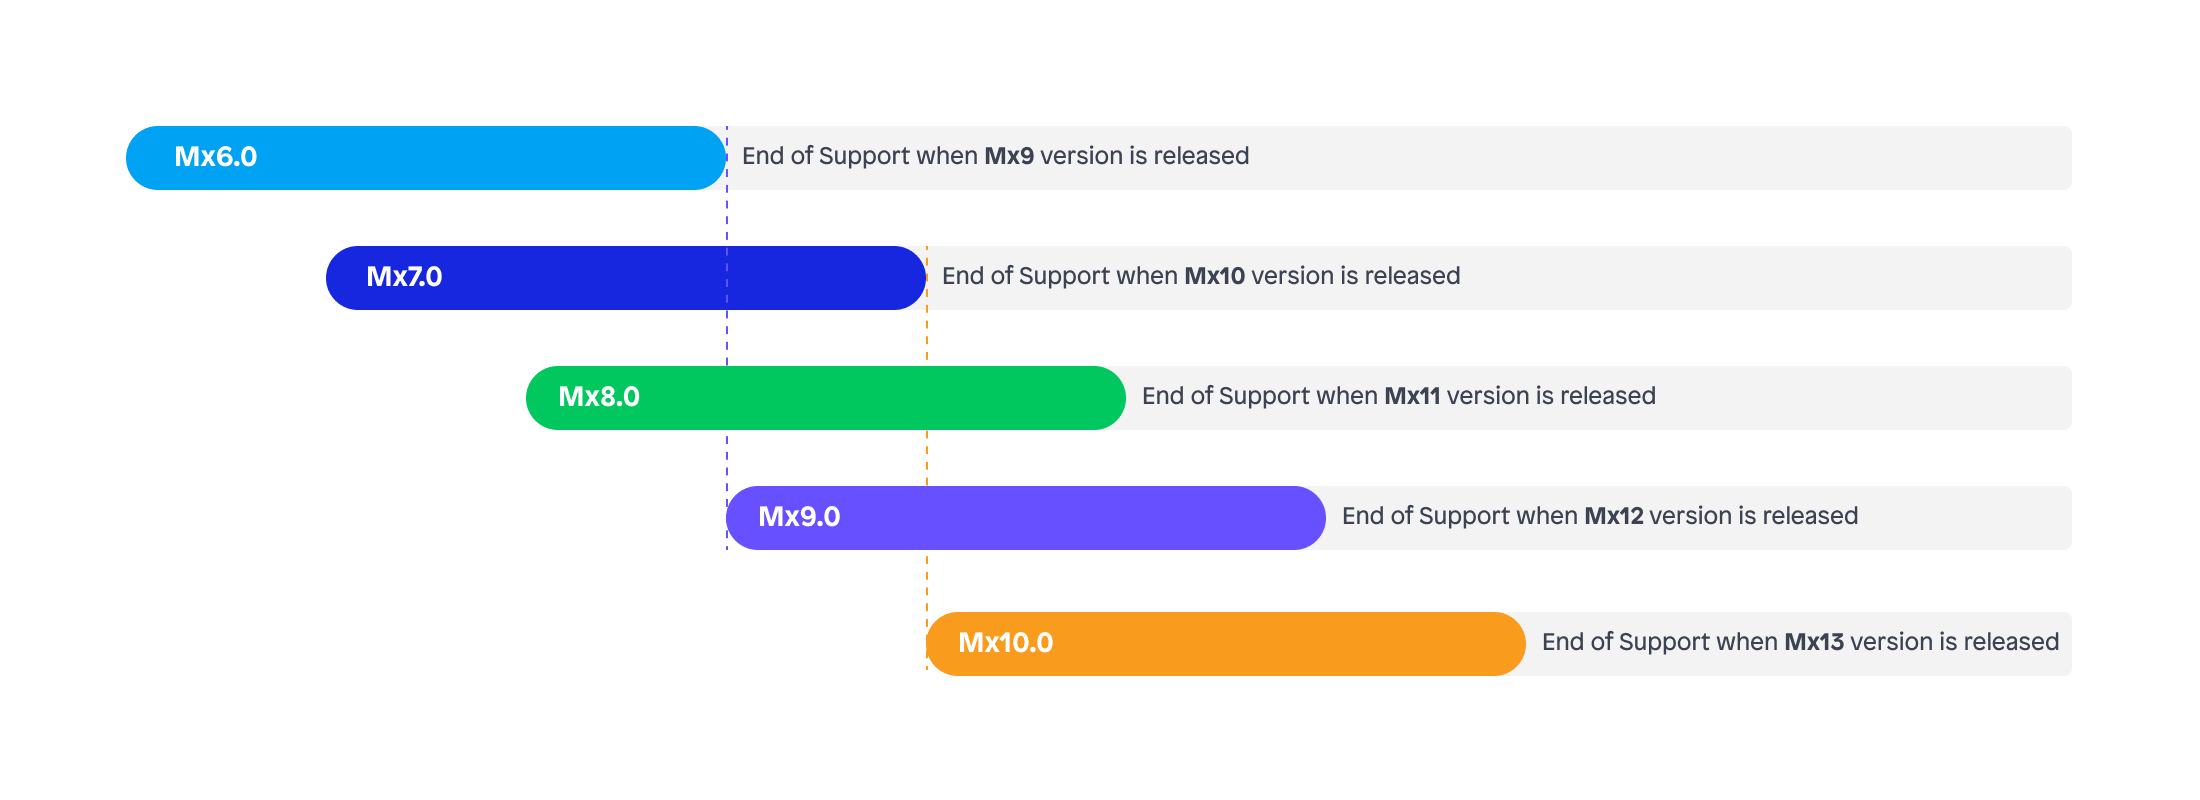
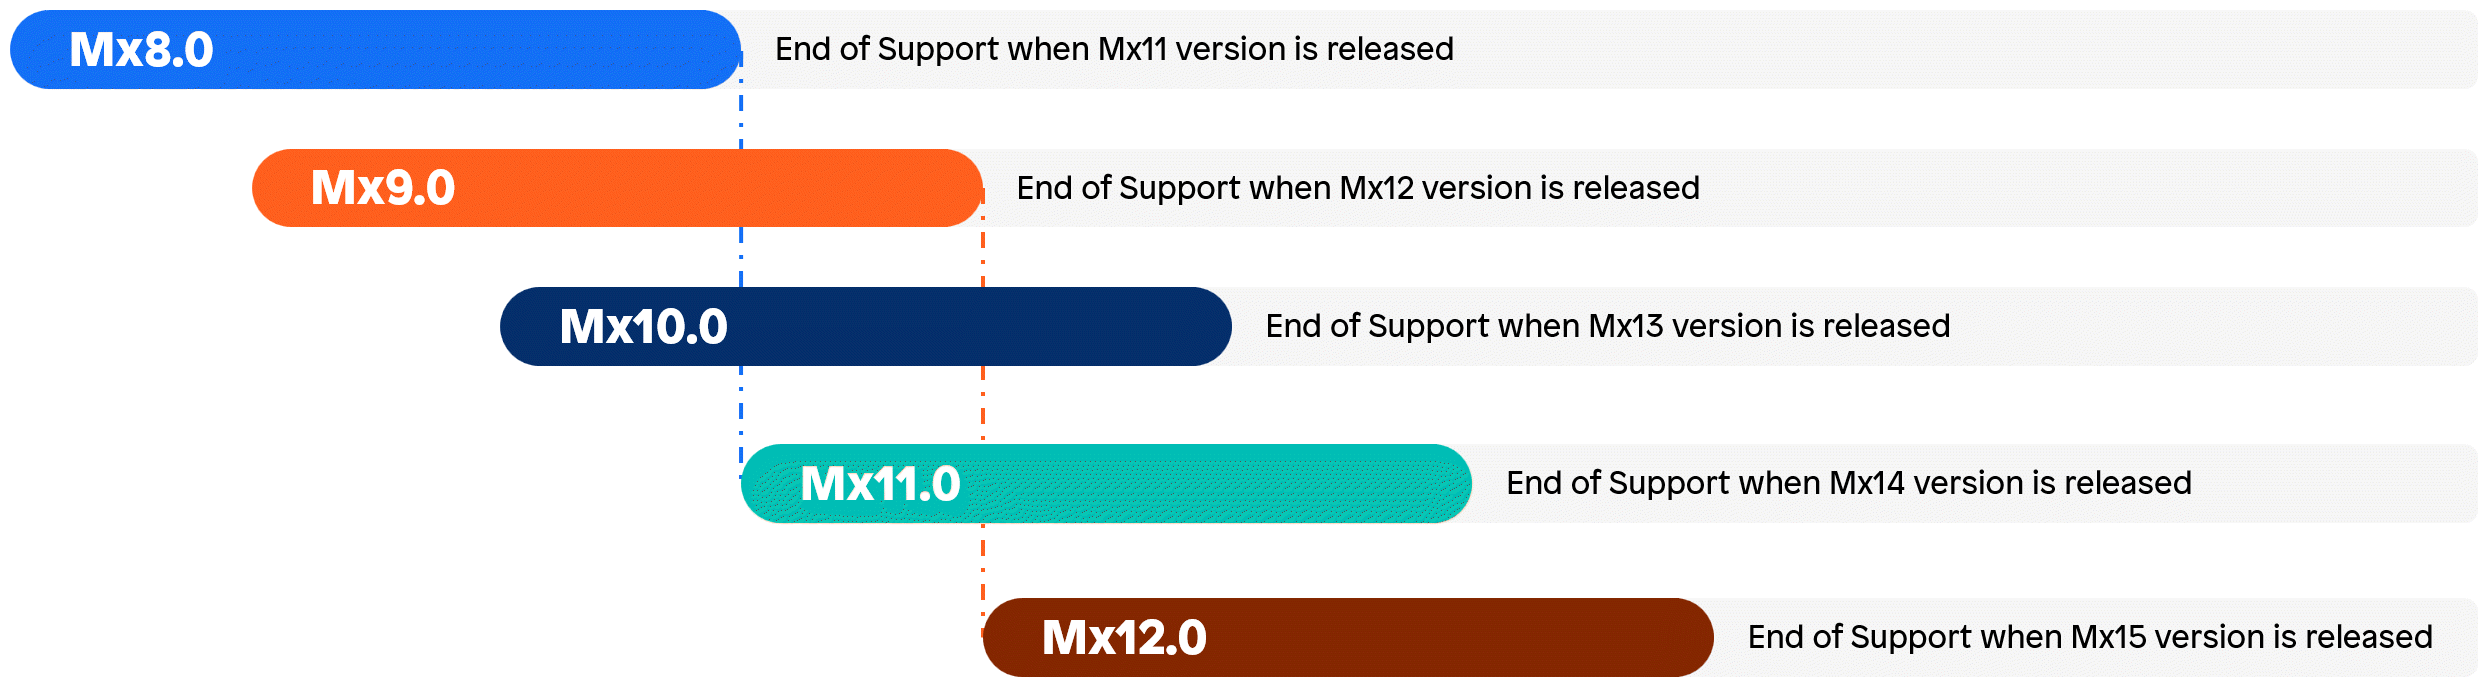
Bring LTS,MTS document up to date

Changed region(s): [[0.0, 0.0, 0.8036, 0.5502], [0.2782, 0.5808, 0.9891, 1.0]]

diff --git a/content/en/docs/releasenotes/studio-pro/lts-mts.md b/content/en/docs/releasenotes/studio-pro/lts-mts.md
@@ -8,11 +8,11 @@ weight: 1
 
 The goal of this document is to clarify Mendix Studio Pro version options and help you decide which version to run your applications on.
 
-To understand the different types of versions and releases, consider the example of Studio Pro [11.0.3](/releasenotes/studio-pro/11.3/) and see the sections below.
+To understand the different types of versions and releases, consider the example of Studio Pro [11.6.1](/releasenotes/studio-pro/11.6/#1161) and see the sections below.
 
 ### Major Version {#major-version}
 
-In the 11.0.3 example, the first number (**11**) indicates the major version.
+In the 11.6.1 example, the first number (**11**) indicates the major version.
 
 Mendix supports three major versions at a time. To clarify our current offering and in relation to our SLA, today Mendix supports major versions 9, 10, and 11. 
 
@@ -28,16 +28,17 @@ For Mendix 10 and 11, we are planning to follow this release timeline:
 | 11.12 MTS | June 2026 |
 | 11.18 MTS | December 2026 |
 | 11.24 LTS | June 2027 |
+| 12.0 GA | June 2027 |
 
 ### Minor Version
 
-In the 11.0.3 example, the second number (**0**) indicates the minor version. 
+In the 11.6.1 example, the second number (**6**) indicates the minor version. 
 
 A minor version is generally released every month. It includes new features and fixes, but it does not include breaking changes.
 
 ### Patch Version {#patch-version}
 
-In the 11.0.3 example, the third number (**3**) indicates the patch version. 
+In the 11.6.1 example, the third number (**1**) indicates the patch version. 
 
 A patch version is released on an as-needed basis. It includes security fixes and critical bug fixes, but it does not include new features or breaking changes (unless these address security issues).
 
@@ -62,9 +63,11 @@ Mendix recommends using the latest patch version of the release as the latest ve
 
 ### Support Duration
 
-Support for an LTS version ends when a third consecutive major version is released for general availability (for example, support on version 6 ended with the GA release of version 9).
+Support for an LTS version ends when a third consecutive major version is released for general availability (for example, support on version 8 ended with the GA release of version 11).
 
 This diagram illustrates the LTS concept with version and [end of support](#end) examples:
+
+[//]: # (Original image in Powerpoint /static/originals/refguide/lts-support.pptx)
 
 {{< figure src="/attachments/releasenotes/studio-pro/lts-mts/lts.png" class="no-border" >}}
 
@@ -90,7 +93,7 @@ Upgrading from an LTS to an LTS often has the lowest impact compared to other up
 
 An MTS is a minor version released approximately every 6 months after a new major version release for general availability.
 
-There are currently no MTS versions of Studio Pro. The next one that will occur is 11.6, planned for release in [December, 2025](#major-version).
+For example, version 11.6 is an MTS version which was released in [December, 2025](#major-version).
 
 Release notes for any current MTS versions are marked with an MTS badge (<text class="badge badge-pill badge-mts" style="margin-left:0px">MTS</text>) in the left sidebar.
 
@@ -126,7 +129,7 @@ A monthly release is a non-MTS/LTS minor release that only receives patches for 
 
 Monthly release versions do not enjoy regular patch releases like MTS and LTS versions do. Bugs found in monthly release versions are directly resolved in the subsequent monthly release. 
 
-For example, if a bug is found in version 9.1, it will only be fixed in the next monthly release, which would be version 9.2.
+For example, if a bug is found in version 10.1, it will only be fixed in the next monthly release, which would be version 10.2.
 
 ### Release Cycle
 
@@ -136,9 +139,9 @@ This is a monthly release that includes new features as well as security patches
 
 A monthly release only receives patches for critical/security issues if they can be released earlier and faster than the next minor version release. Otherwise, bugs found in a monthly release will only be fixed rolling forward to the next minor version. 
 
-For example, if you are using version 9.1 after 9.2 has been released and you find a critical issue in 9.1, that fix will only be released in the next monthly release, which would be 9.3.
+For example, if you are using version 10.1 after 10.2 has been released and you find a critical issue in 10.1, that fix will only be released in the next monthly release, which would be 10.3.
 
-If a bug is found in a monthly-release version for an older major version, it will only be fixed as a patch on the existing LTS (for example, a bug found in 9.16 will only be fixed for a patch release on the LTS version 9.24). 
+If a bug is found in a monthly-release version for an older major version, it will only be fixed as a patch on the existing LTS (for example, a bug found in 10.16 will only be fixed for a patch release on the LTS version 10.24). 
 
 ### Upgrading Impact
 
